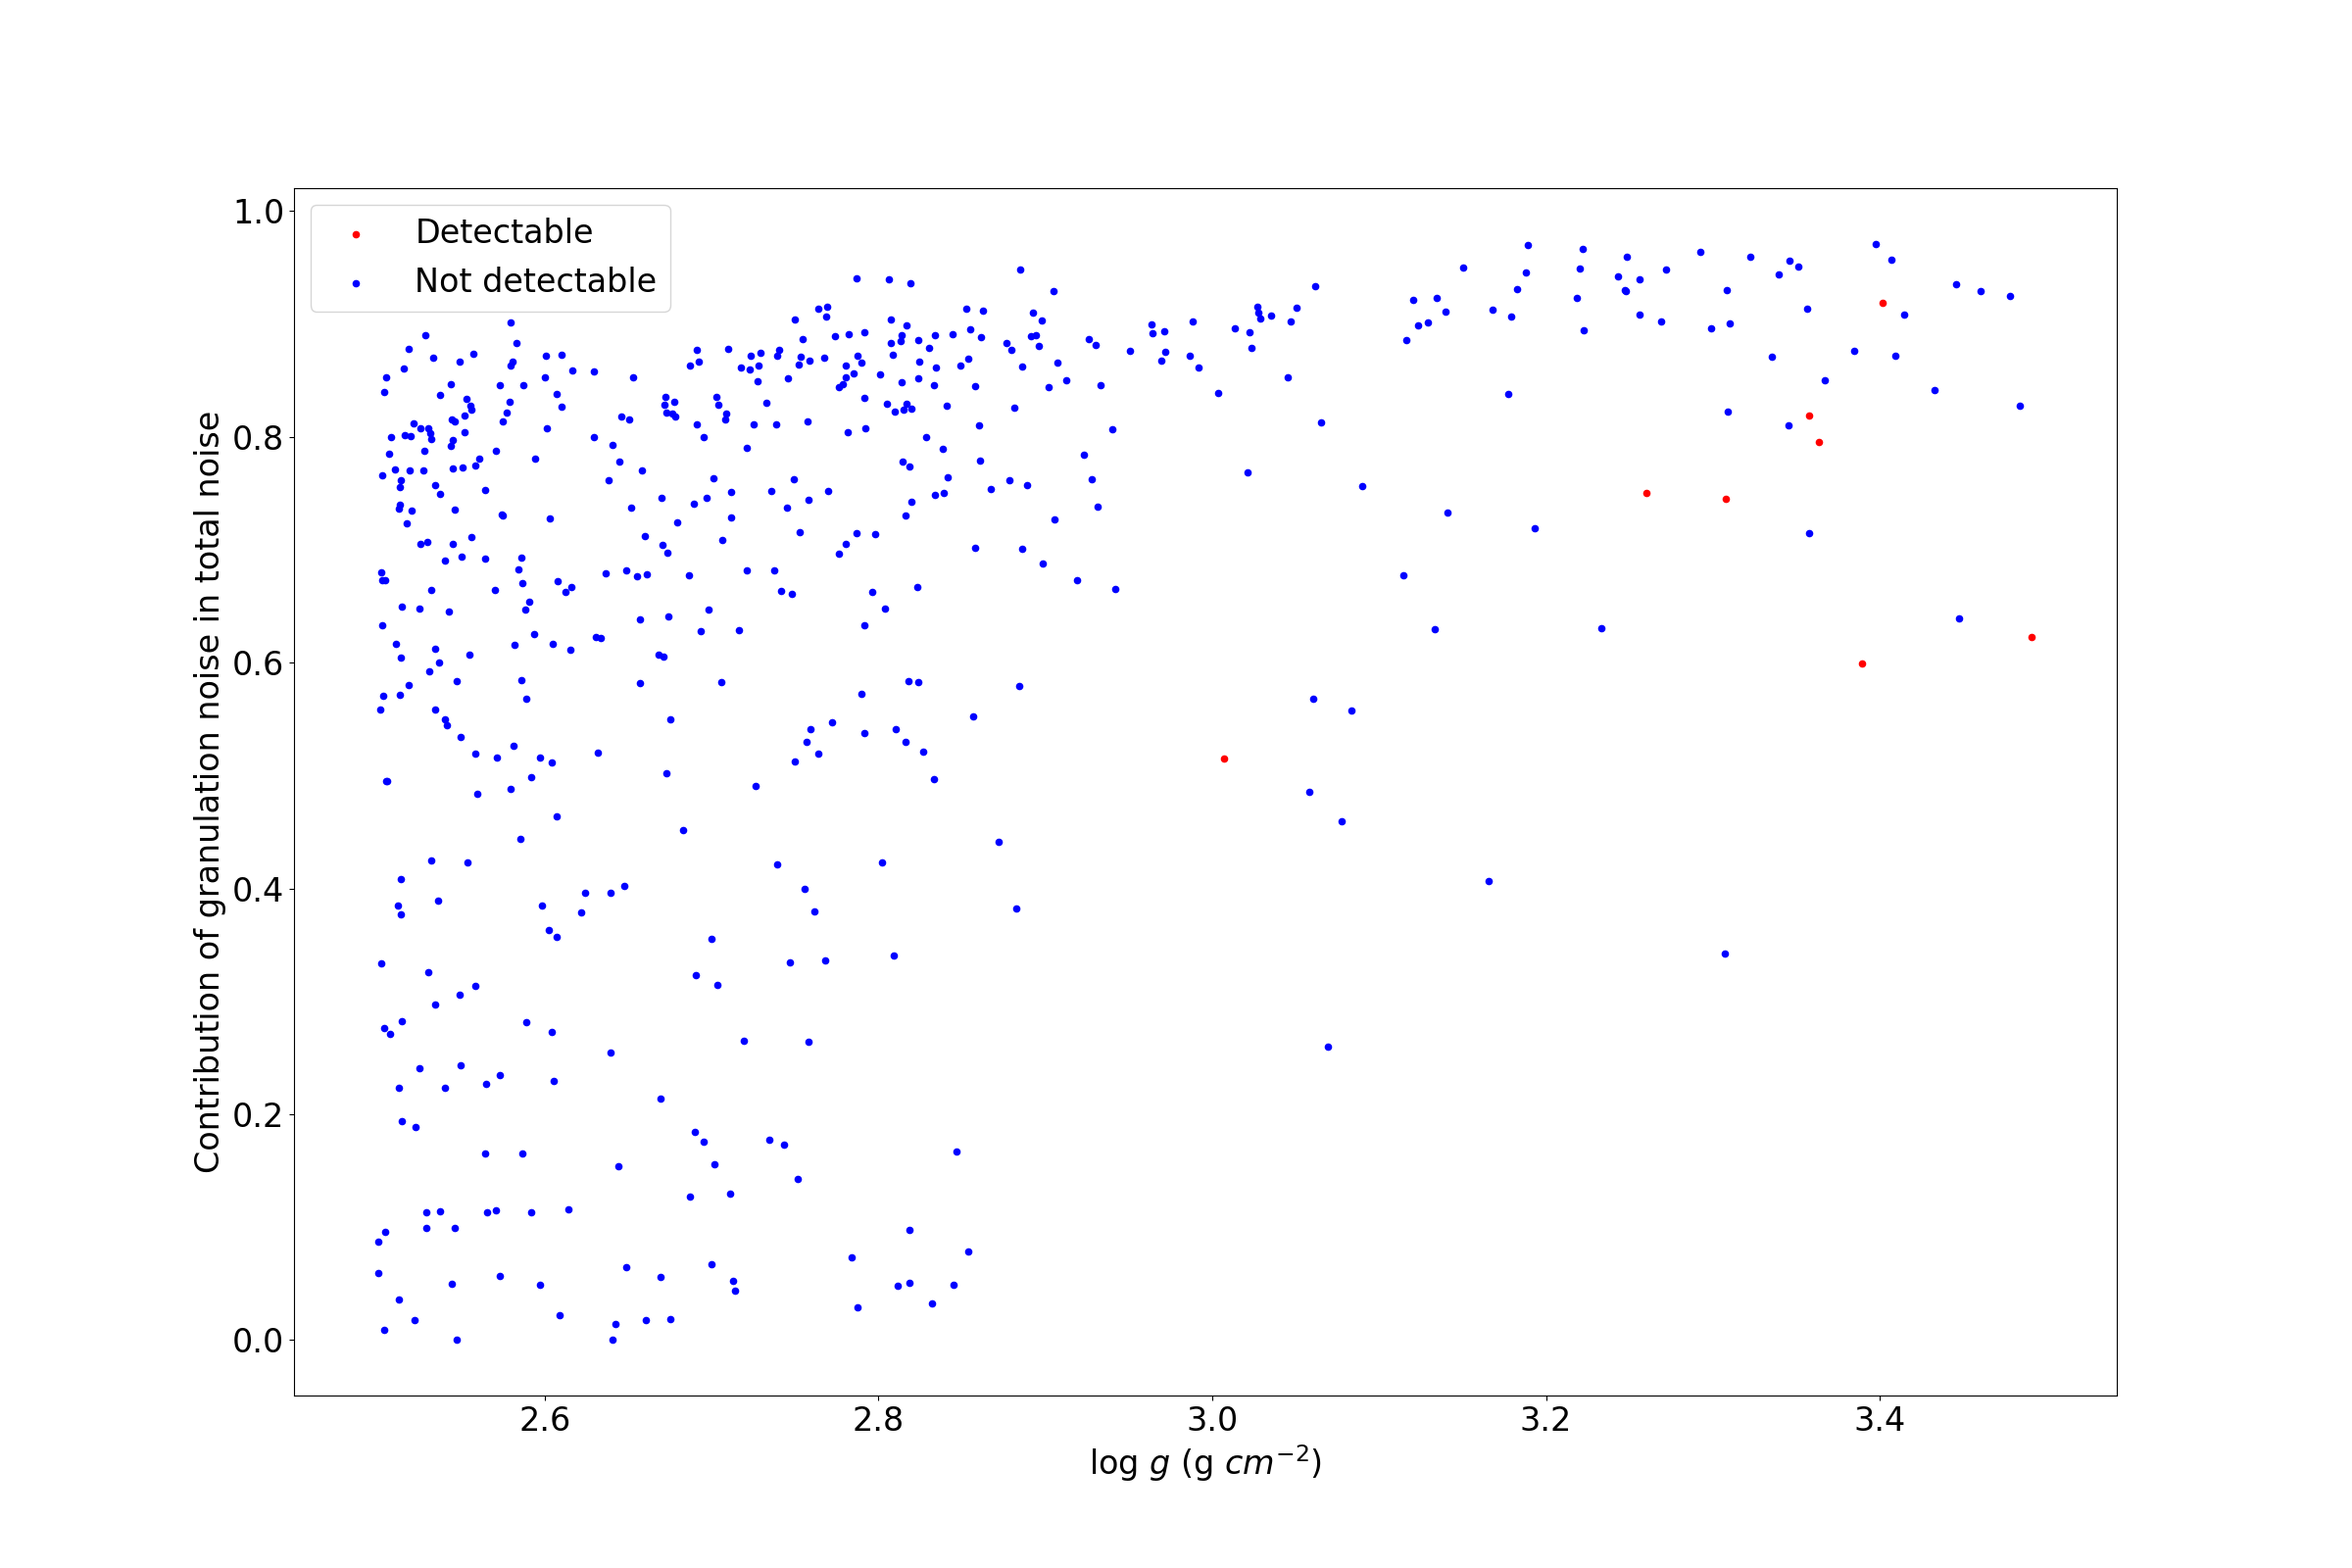
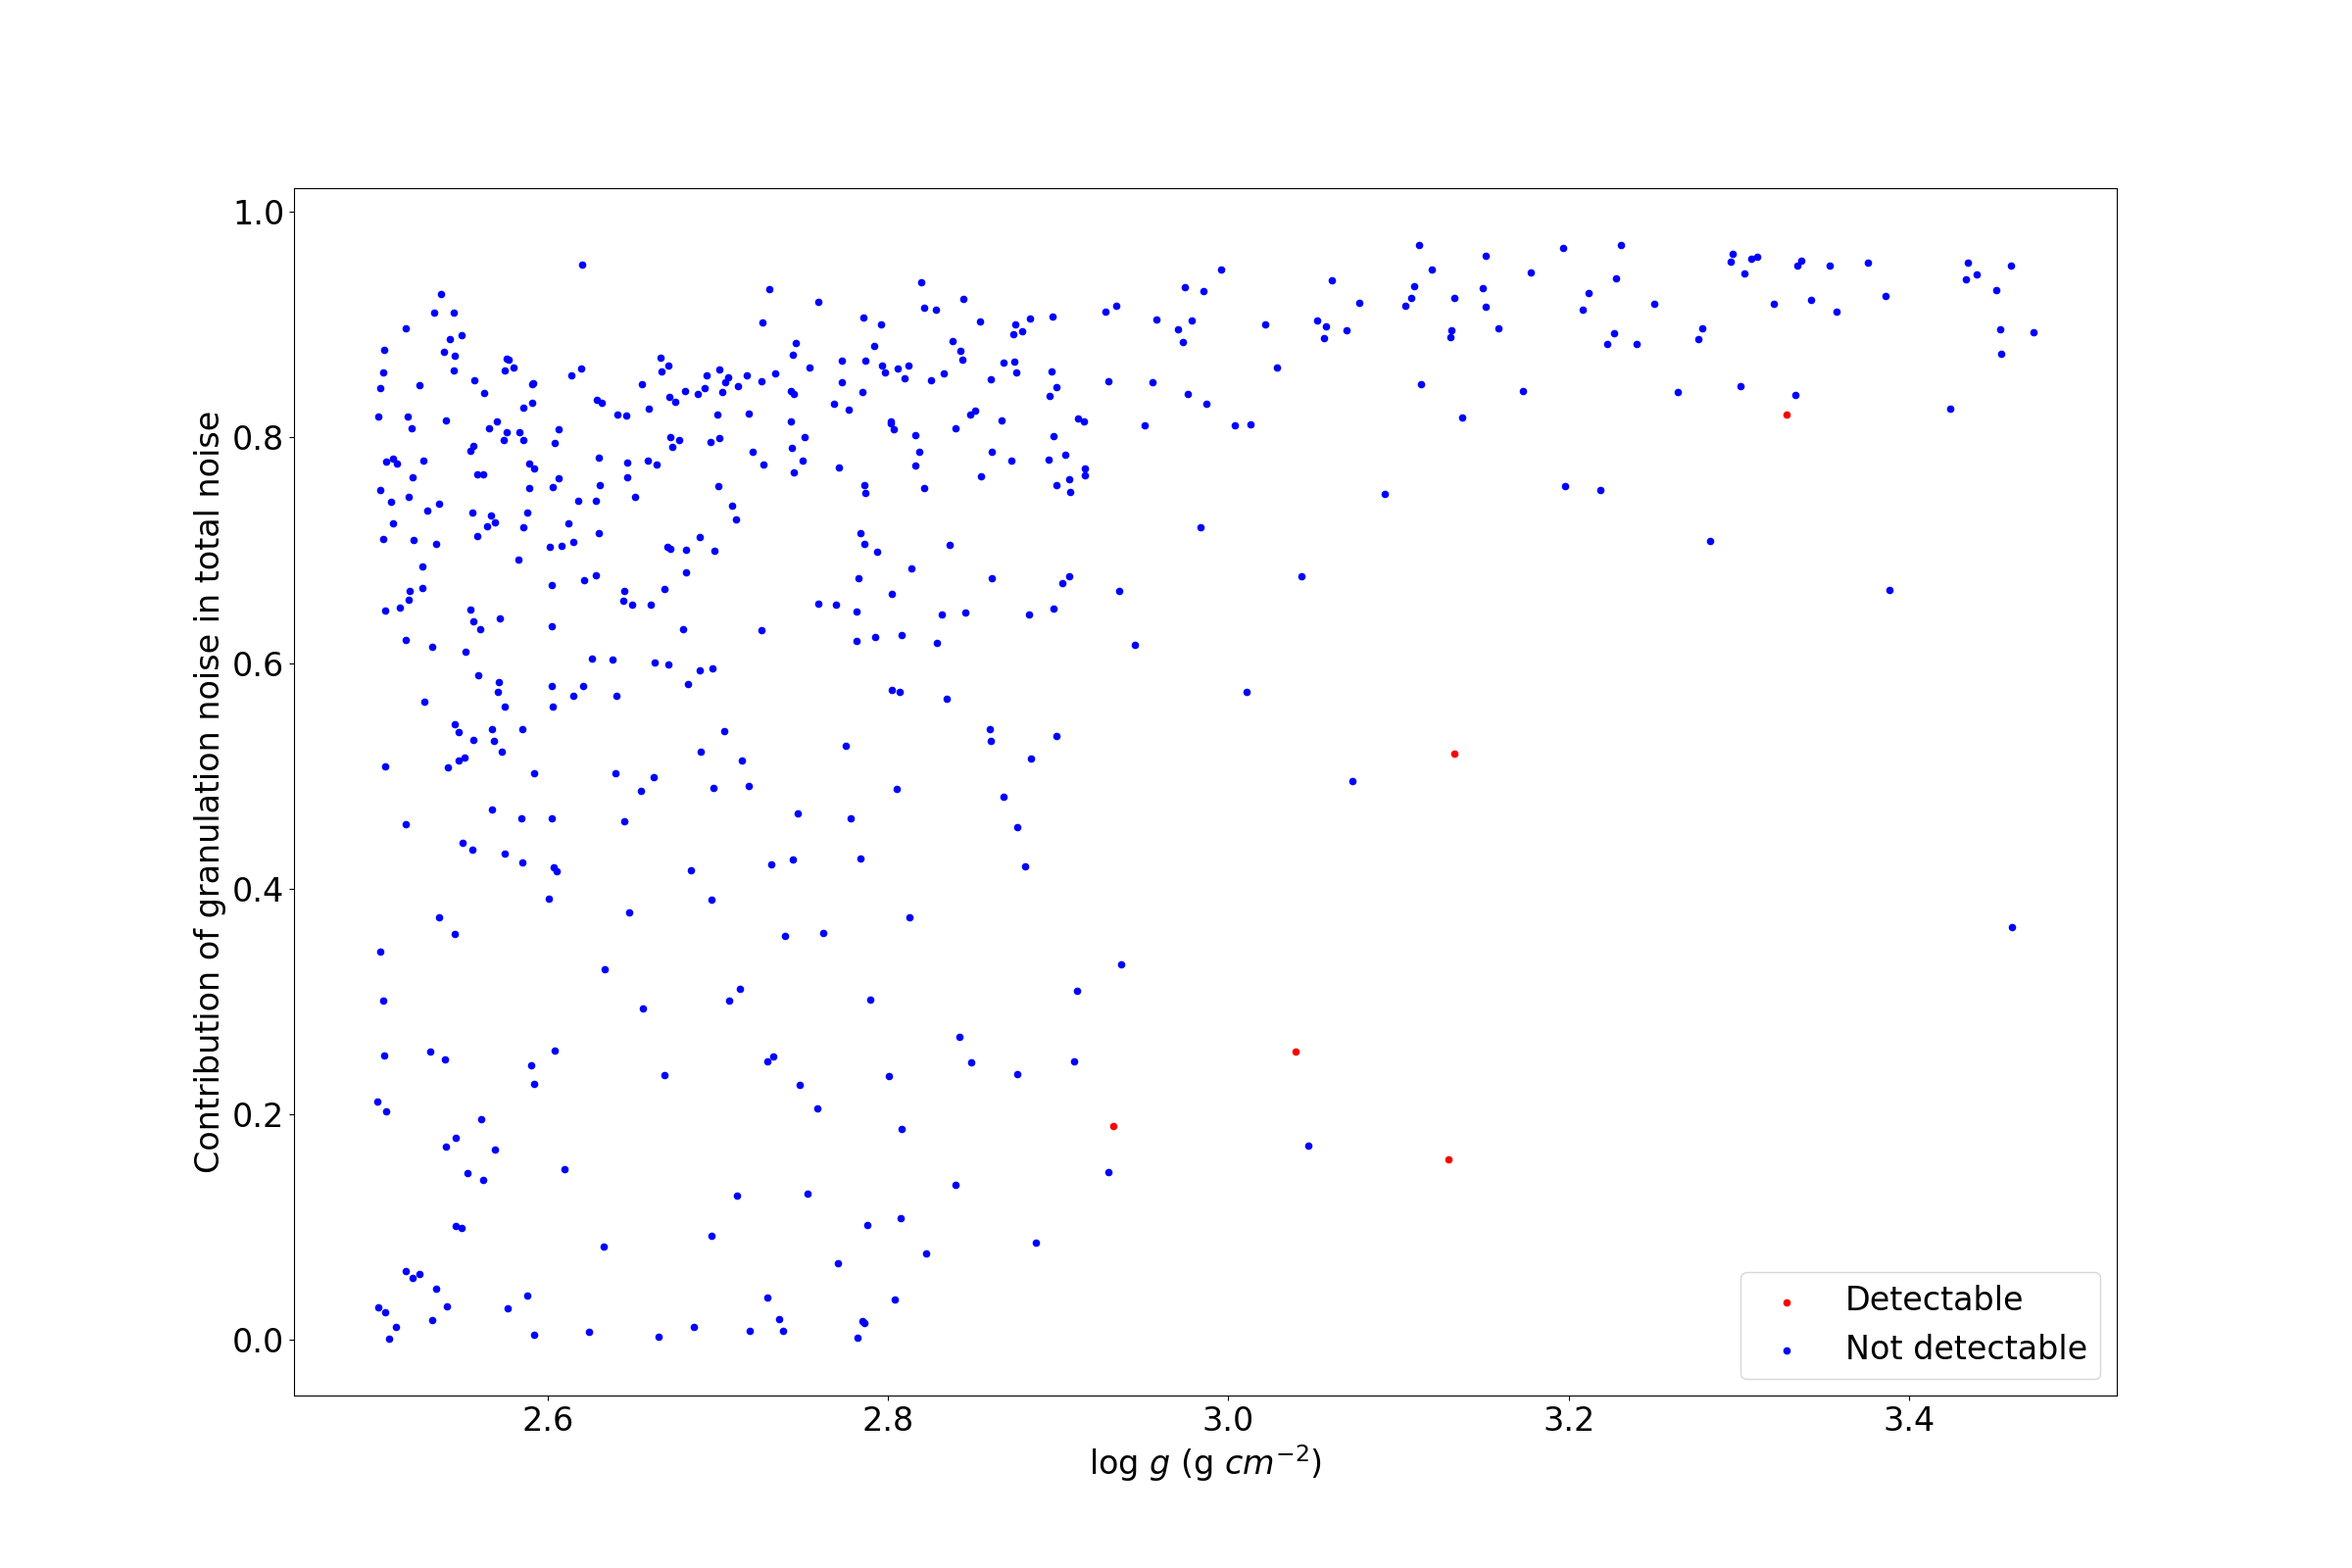
Figures that explore the magnitude of the simulation sample

diff --git a/tess-yield/planet_sample.py b/tess-yield/planet_sample.py
@@ -49,11 +49,14 @@ def planet_seeding(planet_rate, min_n_transits=2, pop_multi=10, write_output=0, 
 	# Loop that samples periods and radius for the seeded planets until all values are physically consistent
 	invalid_planets = np.ones(has_planet.sum(), dtype=bool)
 	while np.any(invalid_planets):
-		# ADD sensitivity_csv OPTION WITH UNIFORM DISTRIBUTIONS
 		# Draw period samples (in days from a lognormal distribution. Values from Thomas North)
-		period[invalid_planets] = np.random.lognormal(2.344, 1.275, invalid_planets.sum())
 		# Draw planet radius samples (in R_earth)
-		planet_radius[invalid_planets] = X.rvs(invalid_planets.sum())
+		if sensitivity_csv:
+			period[invalid_planets] = np.random.uniform(3.4, 29.0, invalid_planets.sum())
+			planet_radius[invalid_planets] = np.random.uniform(6.0, 22.0, invalid_planets.sum())
+		else:
+			period[invalid_planets] = np.random.lognormal(2.344, 1.275, invalid_planets.sum())
+			planet_radius[invalid_planets] = X.rvs(invalid_planets.sum())
 		# Determine planet mass using Equation 29 from Sullivan et al. 2015 (in M_earth)
 		planet_mass[invalid_planets] = 2.69 * planet_radius[invalid_planets]**0.93
 		# Determine Roche limit
@@ -107,6 +110,7 @@ def planet_seeding(planet_rate, min_n_transits=2, pop_multi=10, write_output=0, 
 
 	# Determine shot noise
 	_, _, _, npix_aper = mat_script.pixel_cost(ubv_i[has_planet][has_transit][has_min_transits])
+	#npix_aper[:] = 30
 	shotnoise = mat_script.calc_noise(ubv_i[has_planet][has_transit][has_min_transits], 1800, 
 		teff[has_planet][has_transit][has_min_transits], ec_lon[has_planet][has_transit][has_min_transits], 
 		ec_lat[has_planet][has_transit][has_min_transits], g_lon[has_planet][has_transit][has_min_transits], 
@@ -165,7 +169,7 @@ def planet_seeding(planet_rate, min_n_transits=2, pop_multi=10, write_output=0, 
 	if plot_hist:
 		plot_hist_function(logg, planet_radius, period, t_duration, has_planet, has_transit, has_min_transits, is_detectable)
 	if plot_noise:
-		plot_noise_function(logg, shotnoise, gran_noise, noise, has_planet, has_transit, has_min_transits, is_detectable)
+		plot_noise_function(logg, ubv_i, shotnoise, gran_noise, noise, has_planet, has_transit, has_min_transits, is_detectable)
 
  	
 # Plots the distributions (planet_radius, period) for the last run of planet seeding
@@ -288,7 +292,8 @@ def plot_result_hist(planet_rates):
 			print("{:^11}   {:^11.1f}   {:^11.4f}".format(str(int(rate*100)) + " %", np.median(detections), np.std(detections)))
 
 # Plot the impact of each noise component in function of the logg of the star
-def plot_noise_function(logg, shotnoise, gran_noise, noise, has_planet, has_transit, has_min_transits, is_detectable):
+def plot_noise_function(logg, ubv_i, shotnoise, gran_noise, noise, has_planet, has_transit, has_min_transits, is_detectable):
+	"""
 	plt.figure(13, figsize=(24,16), dpi=100)
 	plt.scatter(logg[has_planet][has_transit][has_min_transits][is_detectable], abs(shotnoise[is_detectable]-noise[is_detectable]) / noise[is_detectable], 
 		s=20, color='red', label="Detectable")
@@ -333,8 +338,23 @@ def plot_noise_function(logg, shotnoise, gran_noise, noise, has_planet, has_tran
 	plt.tick_params(labelsize=24)
 	plt.legend(fontsize=24)
 	plt.savefig("figures/" + "noise_logg.png")
+	"""
 
-	plt.close("all")
+	plt.figure(17, figsize=(24,16), dpi=100)
+	plt.scatter(ubv_i[has_planet][has_transit][has_min_transits][is_detectable], shotnoise[is_detectable], 
+		s=25, color='red', label="Detectable")
+	plt.scatter(ubv_i[has_planet][has_transit][has_min_transits][~is_detectable], shotnoise[~is_detectable], 
+		s=25, color='blue', label="All")
+	plt.xlabel(r"log $g$ (g $cm^{-2}$)", fontsize=24)
+	plt.ylabel(r"Noise", fontsize=24)
+	plt.ylim([0.0, 0.002])
+	plt.xlim([0.0, 13.0])
+	plt.tick_params(labelsize=24)
+	plt.legend(fontsize=24)
+	plt.show()
+	#plt.savefig("figures/" + "noise_mag.png")
+
+	#plt.close("all")
 
 # Runs miltiple times the planet seeding routine for diferent rates and saves the results in a file
 # Then it plots the histograms of those results
@@ -349,4 +369,4 @@ def multi_seeding(planet_rates, num_iter=300):
 if __name__ == "__main__":
 	#planet_rates = [0.1, 0.05, 0.01]
 	#multi_seeding(planet_rates, num_iter=500)
-	planet_seeding(0.01, verbose=1, plot_noise=1)
+	planet_seeding(0.01, verbose=1, plot_noise=0)

diff --git a/tess-yield/main.py b/tess-yield/main.py
@@ -7,12 +7,12 @@ import gxutil
 import matplotlib.pyplot as plt
 
 galaxia = ebf.read('data/tess.ebf','/')
-(sample_index, g_lon, g_lat, ec_lon, ec_lat, ra, dec, mass, radius, age, lum, teff, logg, feh, observed_days, 
+(sample_index, g_lon, g_lat, ec_lon, ec_lat, ra, dec, mass, radius, age, lum, teff, logg, feh, observed_days_med, observed_days_min,
 	ubv_u, ubv_b, ubv_v, ubv_r, ubv_i, ubv_j, ubv_h, ubv_k) = np.loadtxt("data/star_sample_complete.dat", unpack=True)
 
 ubv_i_abs = ubv_i
 
-gxutil.abs2app(galaxia,corr=True)
+gxutil.abs2app(galaxia, corr=True)
 ubv_u = galaxia["ubv_u"][sample_index.astype(int)]
 ubv_b = galaxia["ubv_b"][sample_index.astype(int)]
 ubv_v = galaxia["ubv_v"][sample_index.astype(int)]
@@ -22,12 +22,10 @@ ubv_j = galaxia["ubv_j"][sample_index.astype(int)]
 ubv_h = galaxia["ubv_h"][sample_index.astype(int)]
 ubv_k = galaxia["ubv_k"][sample_index.astype(int)]
 
-
 plt.figure(1)
-plt.hist(ubv_i, bins=100)
-plt.figure(2)
-plt.hist(ubv_i_abs, bins=100)
+plt.hist(galaxia["ubv_i"], bins=100)
+#plt.xlim([8, 18])
+#plt.savefig("corr.png")
 plt.show()
-
 
 # Used for testing

diff --git a/tess-yield/gxutil.py b/tess-yield/gxutil.py
@@ -56,7 +56,7 @@ def abs2app(data,noext=False,dered=False,corr=False):
 	"""
 	dmod=5.0*np.log10(100.0*data['rad'])
 	if dered:
-		ebv=data['exbv_schlegel']-data['exbv_schlegel_inf'] 
+		ebv=data['exbv_schlegel']-data['exbv_schlegel_inf']
 	else:
 		ebv=data['exbv_schlegel']*1.0
 	if corr:
